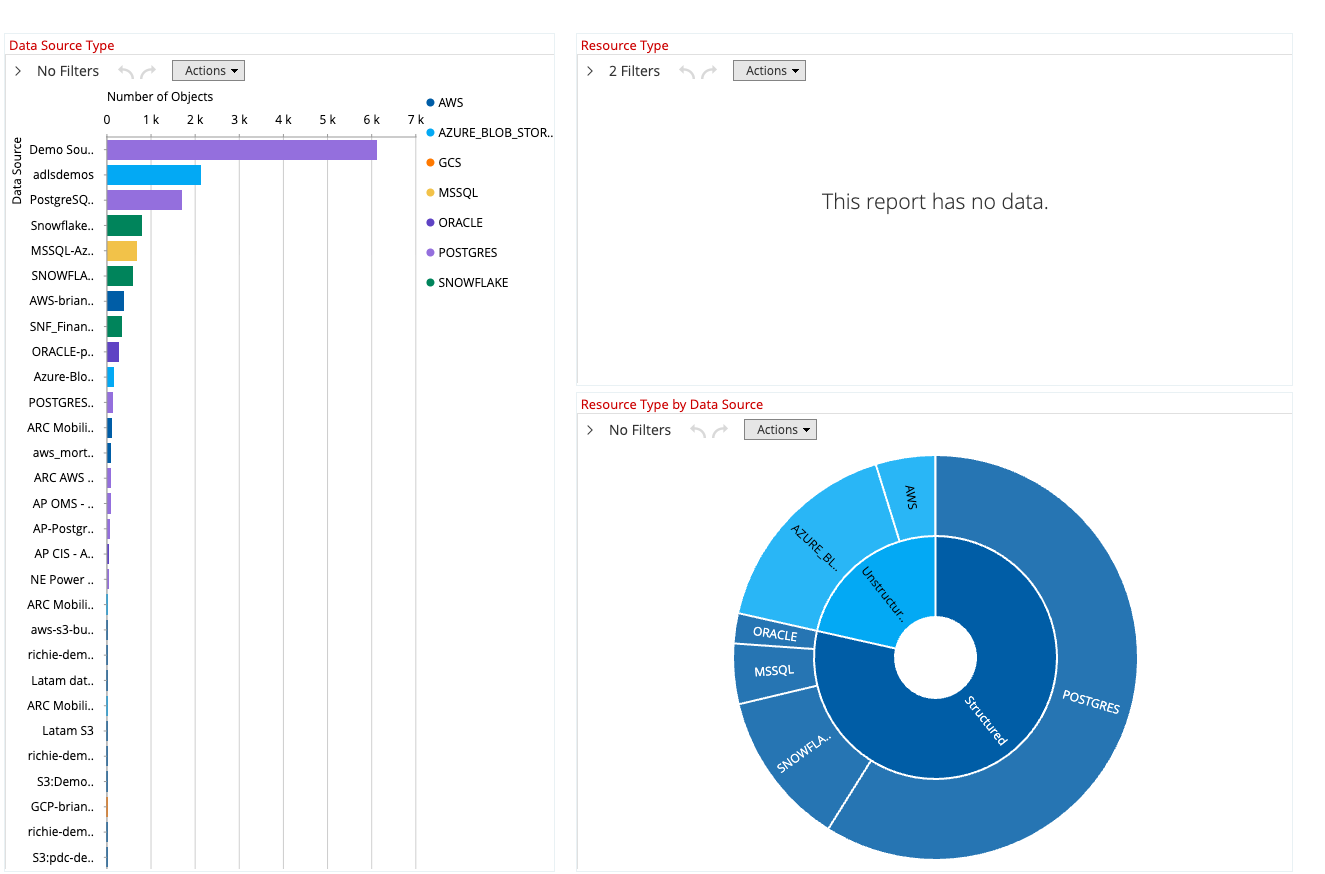
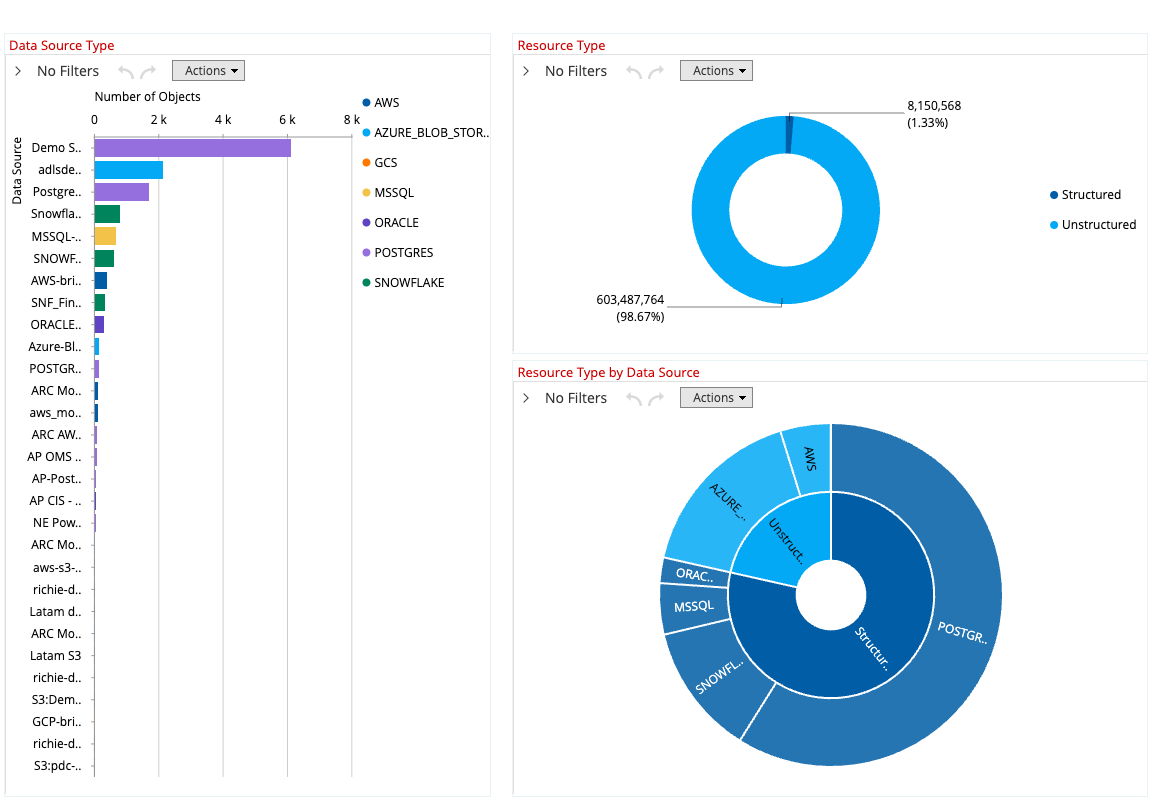
Refresh D11 screenshot; expand 3.2 Data Architecture with full source/MV inventory

diff --git a/pdc-analysis/README.md b/pdc-analysis/README.md
@@ -367,40 +367,121 @@ pdc-analysis/
 └── README.md
 ```
 
-## 3.2 Architecture
+## 3.2 Data Architecture
 
-### Three‑Cube Design
-- **`01. Data Asset Analysis`** (Virtual Cube) — unified entity + term analysis with full time context.
-- **`71. Entity Snapshot`** — entity‑grain fact table with storage metrics, child hierarchies, 6 role‑playing date dimensions.
+### 3.2.1 End‑to‑End Data Flow
+
+```
+   ┌────────────────────────┐       postgres_fdw         ┌──────────────────────────┐
+   │  PDC operational DB    │ ─────────────────────────▶ │  bidb_ext_dev (analytics)│
+   │  (schema: bidb_ext)    │   foreign server           │  PostgreSQL 17.7         │
+   │                        │   `remote_bidb`            │                          │
+   │  • catalog views       │                            │  • staging MV            │
+   │  • policy / app views  │                            │  • 13 dimension MVs      │
+   │  • pipeline_log        │                            │  • 8 fact MVs            │
+   └────────────────────────┘                            └────────────┬─────────────┘
+                                                                      │ Mondrian
+                                                                      ▼
+                                                         ┌──────────────────────────┐
+                                                         │  bidb_ext.xml (3 cubes)  │
+                                                         │  Analyzer + Dashboards   │
+                                                         └──────────────────────────┘
+```
+
+The analytics database is a **separate PostgreSQL schema (`bidb_ext_dev`)** that materializes a star‑schema warehouse from the live PDC catalog. Source tables/views live in the operational PDC database and are exposed through a **PostgreSQL foreign data wrapper** (`remote_bidb` server, set up by `01-setup/01-fdw-setup.sql`). Every analytics object is a **`MATERIALIZED VIEW`** so reports run against pre‑computed snapshots, not live OLTP queries. Refresh is orchestrated by `05-refresh/01-refresh-all.sql` and triggered from the Pentaho job `j-main-script.kjb` (or `j-refresh-only.kjb` to skip the rebuild).
+
+### 3.2.2 Three‑Cube Mondrian Design (`analyzer/bidb_ext.xml`)
+
+- **`01. Data Asset Analysis`** (Virtual Cube) — unified entity + term analysis with full time context, joined on conformed dimensions.
+- **`71. Entity Snapshot`** — entity‑grain fact with storage metrics, child hierarchies, and 6 role‑playing date dimensions.
 - **`72. Entity Term`** — many‑to‑many associative fact linking entities to glossary terms.
 
-### Dimensional Model (PostgreSQL 17.7, 10 materialized views)
+Additional fact tables (governance, application reach, duplication, pipeline ops, extension trends, temperature trends) plug into the same conformed dimensions and are surfaced through dedicated cubes / dashboards.
 
-**Fact tables**
-- `fact_entity_snapshot` — daily entity snapshots (storage + hierarchy)
-- `fact_entity_term` — entity‑to‑term associations with time context
+### 3.2.3 Source Tables & Views (PDC operational DB, accessed via FDW)
 
-**Dimensions**
-- `dim_date` — complete date range with Unknown handling (1900‑01‑01)
-- `dim_entity` — Name, Type, Path, FQDN, Owner, Group
-- `dim_term` — business glossary terms
-- `dim_glossary_term` — 6‑level business glossary hierarchy
-- `dim_datasource` — source system classification
-- `dim_filetype` — file type taxonomy
-- `dim_leaf_flag` — leaf‑term filter
+| Source object | Kind | What it provides |
+|---|---|---|
+| `entities_master_view` | catalog view | One row per catalog entity: identity, type, path, FQDN, owner, group, size, child counts, all 6 timestamps, cost‑per‑TB, currency, profile/quality stats (RowCount, NullCount, Cardinality, Hll), key flags (PK/FK/Nullable), document metadata (Title, Author, Application, Company, PageCount). |
+| `terms_view` | catalog view | Classification term assignments per entity (FQDN‑joined). |
+| `glossary_summary_view` | catalog view | Glossary node hierarchy used to derive 6‑level ragged hierarchy. |
+| `datasource_category_mapping` | reference | Maps `DataSourceType` → category for `dim_entity` rollups. |
+| `entities_custom_categorization` | reference | Customer‑defined categorization joined into `dim_entity`. |
+| `currency_exchange_rates` | reference | USD conversion factors used by cost measures and `dim_currency`. |
+| `policies_summary_view` | governance | Master list of policies (one per policy). |
+| `mv_policies_summary` | governance | Pre‑built MV with policy → glossary level hierarchy. |
+| `entities_policies_view` | governance | Entity ⨯ policy assignments (drives `fact_entity_policy`). |
+| `applications_summary_view` | usage | One row per discovered application (with `UsersWithAccess` jsonb array). |
+| `entities_applications_view` | usage | Entity ⨯ application access (drives `fact_entity_application`). |
+| `duplicate_files_view` | dedup | Raw duplicate file records used to attach an example entity to each group. |
+| `mv_duplicate_savings_by_original_view` | dedup | Pre‑aggregated duplicate‑group savings (size + cost). |
+| `entities_extension_count_view` | trends | Daily file counts by data source × extension. |
+| `entities_temperature_count_view` | trends | Daily file counts by data source × temperature band. |
+| `pipeline_log` | ops | One row per pipeline job_id × view × started_at (status, timestamps). |
 
-**Time‑based analysis**
-- 6 role‑playing date dimensions: Scanned, Created, Modified, Accessed, Last Update, Last Update Statistics
-- Age calculations (months/years) for staleness detection
-- Unknown date (1900‑01‑01) ensures drill‑through always returns rows
+### 3.2.4 Analytics Schema (`bidb_ext_dev`) — 22 Materialized Views
 
-### Business‑First Categorization
+**Staging (1)**
+
+| MV | Source(s) | Notes |
+|---|---|---|
+| `mv_stg_entity_term` | `entities_master_view` ⟕ `terms_view` ⟕ `glossary_summary_view` | Unified entity+term staging; resolves glossary path; foundation for most dims and facts. |
+
+**Dimensions (13)**
+
+| MV | Source(s) | Description |
+|---|---|---|
+| `dim_date` | derived from MIN/MAX timestamps in `mv_stg_entity_term` | Continuous date range + Unknown row (`1900‑01‑01`, key `19000101`) for missing timestamps. |
+| `dim_term` | `mv_stg_entity_term` | Classification terms (Hot/Cold/PII/…); includes "No Term Available" default member. |
+| `dim_glossary_term` | `glossary_summary_view` | 6‑level ragged business‑glossary hierarchy parsed from FQDN; includes "No Glossary Available" default. |
+| `dim_entity` | `mv_stg_entity_term` ⟕ `entities_master_view` ⟕ `datasource_category_mapping` ⟕ `currency_exchange_rates` ⟕ `entities_custom_categorization` (+ lateral fallbacks on `entities_master_view`) | Entity master with structural attrs, cost/currency in USD with 2‑level fallback, profile/quality, key flags, document metadata, custom & data‑source category. |
+| `dim_datasource` | `mv_stg_entity_term` | Data source type, name, id (conformed). |
+| `dim_filetype` | `mv_stg_entity_term` | File type taxonomy + "No File Type Available" default. |
+| `dim_leaf_flag` | static (2 rows) | true/false toggle for leaf‑term filtering. |
+| `dim_policy` | `policies_summary_view` ⟕ `mv_policies_summary` | One row per policy with 3‑level glossary hierarchy when present. |
+| `dim_application` | `applications_summary_view` | Discovered applications; counts cardinality of `UsersWithAccess` jsonb. |
+| `dim_extension` | `entities_extension_count_view` | Distinct file extensions for trend cube grain. |
+| `dim_temperature` | `entities_temperature_count_view` ∪ static canonical list | Stable temperature membership (Hot/Warm/Cold/Frozen) even on sparse days. |
+| `dim_currency` | `currency_exchange_rates` | Currency lookup with USD conversion rate. |
+| `dim_pipeline_status` | `pipeline_log` ∪ static canonical list | Pipeline run status with sort/order keys. |
+
+**Facts (8)**
+
+| MV | Grain | Source(s) | Key measures |
+|---|---|---|---|
+| `fact_entity_snapshot` | entity × scanned_date | `mv_stg_entity_term` ⟕ `entities_master_view` | Storage size, child counts, freshness/lifecycle bands, governance & metadata‑quality flags. Six date FKs (Scanned, Created, Modified, Accessed, Last Update, Last Update Statistics). |
+| `fact_entity_term` | entity × term | `mv_stg_entity_term` ⟕ `dim_glossary_term` ⟕ latest `fact_entity_snapshot` | Many‑to‑many entity↔term association; carries most‑recent storage for "GB by Term" analysis; links to `glossary_term_key` for hierarchy rollups. |
+| `fact_entity_policy` | entity × policy | `entities_policies_view` ⟕ `dim_entity` ⟕ `entities_master_view` | `assignment_count`, `governed_size_tb`, `governed_cost_usd`. |
+| `fact_entity_application` | entity × application | `entities_applications_view` ⟕ `dim_entity` ⟕ `entities_master_view` | `access_count`, `accessed_size_tb`, `accessed_cost_usd`. |
+| `fact_duplicate` | duplicate group | `mv_duplicate_savings_by_original_view` ⟕ `duplicate_files_view` (example) ⟕ `dim_entity` | `duplicate_group_count`, `duplicate_file_count`, `savings_size_tb`, `savings_cost_usd`. |
+| `fact_pipeline_run` | job_id × view_name × started_at | `pipeline_log` | `run_count`, `success_count`, `failure_count`, `runtime_seconds`; FKs to `dim_pipeline_status`, `dim_date` (started/completed). |
+| `fact_extension_daily` | data source × extension × date | `entities_extension_count_view` | `file_count`. Conformed FKs to `dim_datasource`, `dim_extension`, `dim_date`. |
+| `fact_temperature_daily` | data source × temperature × date | `entities_temperature_count_view` | `file_count`. Conformed FKs to `dim_datasource`, `dim_temperature`, `dim_date`. |
+
+### 3.2.5 Conformed Date Dimension & Time‑Based Analysis
+
+- 6 role‑playing date dimensions on `fact_entity_snapshot`: **Scanned, Created, Modified, Accessed, Last Update, Last Update Statistics**.
+- Age calculations (months/years) precomputed for staleness/temperature analysis.
+- Every fact's date FK uses `COALESCE(to_char(ts::date,'YYYYMMDD')::int, 19000101)` so the Unknown row always satisfies drill‑through.
+- `dim_date` covers `MIN(date) → MAX(date)` across all source timestamps + current date, regenerated every refresh.
+
+### 3.2.6 Refresh Strategy
+
+- All 22 objects are `MATERIALIZED VIEW`s — refreshed in dependency order by `05-refresh/01-refresh-all.sql`:
+  1. staging (`mv_stg_entity_term`)
+  2. dimensions (date first, then attribute dims)
+  3. facts (snapshot first, then term/policy/application/duplicate/pipeline/extension/temperature)
+- DDL is idempotent: `01-setup/03-drop-all-objects.sql` cleans the schema before rebuild; `j-refresh-only.kjb` skips the rebuild and just re‑refreshes data.
+- Indexes are created on every date FK and natural‑key column to keep Mondrian SQL within MOLAP‑like response times.
+
+### 3.2.7 Mondrian Categorization (cube editor)
+
 ```
-01-06: Business dimensions (Data Source, Entity attributes, Terms)
+01-06: Business dimensions (Data Source, Entity attributes, Terms, Policy, Application)
 05:    Time Attributes (date hierarchies)
 05:    Time Attributes — Year/Month Age (separate category for age metrics)
-11-15: Measures (Object Volume, Storage Size, Children, Total Children, Environmental Impact)
-70-79: Core/technical cubes
+11-15: Measures (Object Volume, Storage Size, Children, Total Children, Environmental Impact, Cost USD)
+70-79: Core/technical cubes (Entity Snapshot, Entity Term, Pipeline Run, Duplicate Savings, Extension/Temperature trends)
 ```
 
 ## 3.3 Pentaho Processing Harness